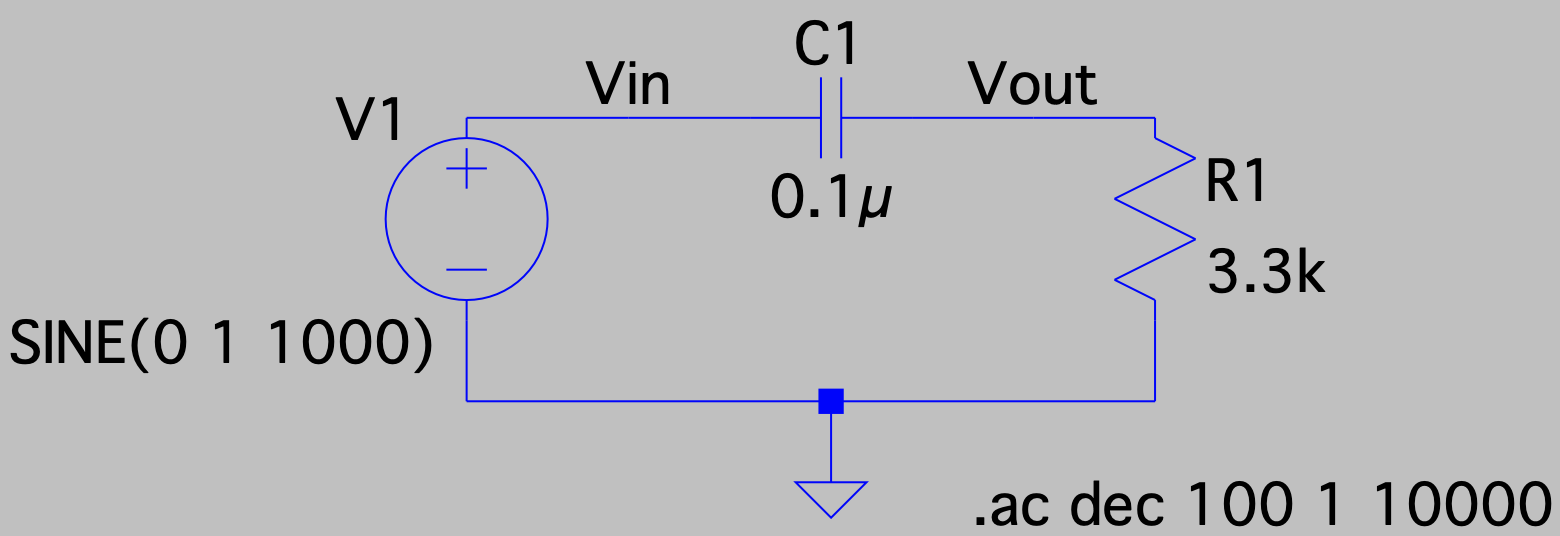
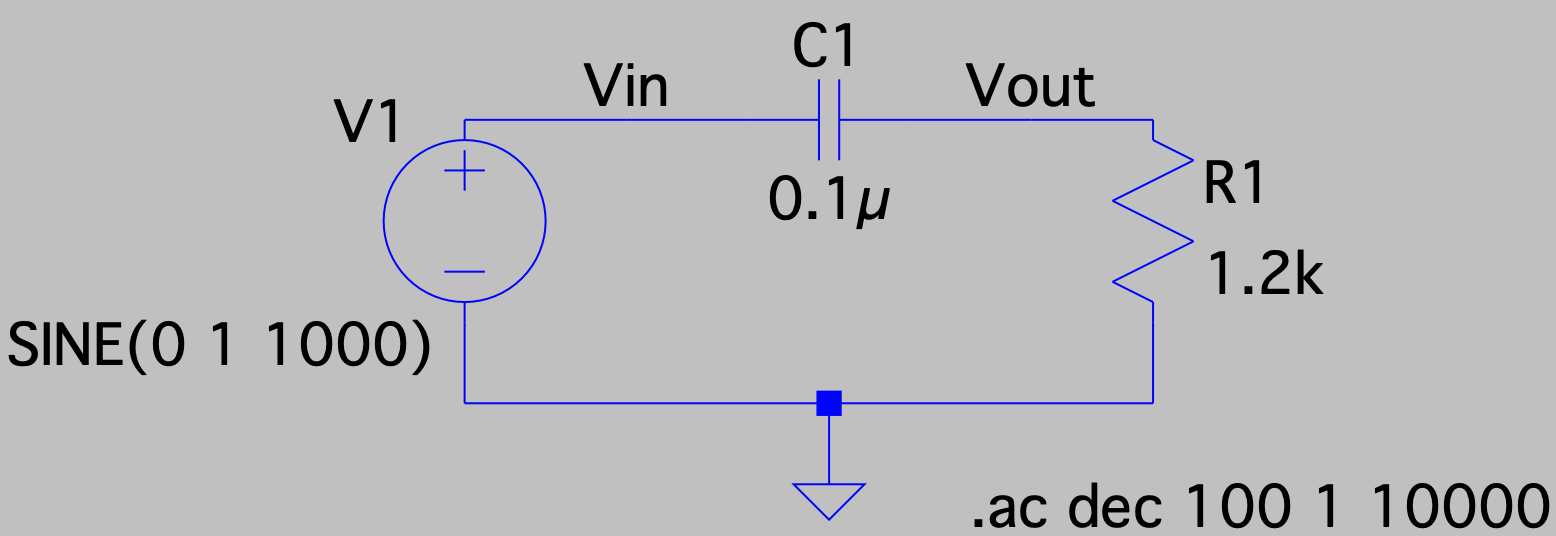
Update

diff --git a/_labs/lab3.md b/_labs/lab3.md
@@ -25,7 +25,7 @@ In the third part,
 
 ## LTSpice Basics
 
-This section of the lab was used to get used to LTSpice and how it functions. After navigating through LTSpice, we needed to draw a low pass RC and high pass RC circuit (which is useful for the later parts of the lab). After drawing these circuits, the frequency response of these circuits was obtained. The circuits and graphs can be found below:
+This section of the lab was used to get used to LTSpice and how it functions. After navigating through LTSpice, we needed to draw a low pass RC and high pass RC circuit (which is useful for the later parts of the lab). We used 1.2k as the resistance of the resistor in this exercise, but will be using 3.3k resistors in the later parts. After drawing these circuits, the frequency response of these circuits was obtained. The circuits and graphs can be found below:
 
 ### Low Pass Circuit and Graph
 ![Low Pass Circuit](../../images/lab3/lowpass-circuit.png)
@@ -118,3 +118,7 @@ This code was tweaked to use the correct prescalar value and use the correct Ard
 ### MATLAB Code
 
 Code was then written in MATLAB to fetch data from the Arduino. The file ```readData_INT_Canvas.m``` on Canvas handled most of the work related to generating the sound (chirp) for the microphone to pick up and reading and converting the values to be read from the serial port of the Arduino. What was left to do was perform Fourier analysis on the data so that we could analyze what was going on.
+
+In order to do so, the simplest way to do so is to use MATLAB's [fft function](https://www.mathworks.com/help/matlab/ref/fft.html?s_tid=mwa_osa_a). In order to use this fft function well, it was in our best interest to follow the format of the examples MATLAB gave to use their function. The example that we references was the noisy signal example. But it was also important to understand what was going on in this example.
+
+There are several variables that are important when calculating the fast fourier transform. We first obtained the length of the signal (length of dataDouble) which is the number of data points obtained from the Arduino. We then computed the sampling frequency by taking the length of the signal and dividing it by the time duration of reading the signal. Sampling frequency is the number of samples per second. The sampling period (1/Fs) was obtained along with the 

diff --git a/_labs/lab2.md b/_labs/lab2.md
@@ -20,7 +20,7 @@ In Lab 2, we first began by understanding how the ADC (analog-to-digital convert
 
 ## Understanding the ADC
 
-In this part of the lab, we applied what we had learned about the ADC from class. From the material covered in class as well as the ATMega4809 Datasheet, I learned that the ADC prescaler generates the ADC clock from any CPU clock **above 100kHz**.
+In this part of the lab, we applied what we had learned about the ADC from class. From the material covered in class as well as the ATMega4809 Datasheet, I learned that the ADC prescaler generates the ADC clock from any CPU clock **above 100kHz**. It is the Prescaler bits (PRESC) that determine prescaling.
 
 ## H-Bridge
 
